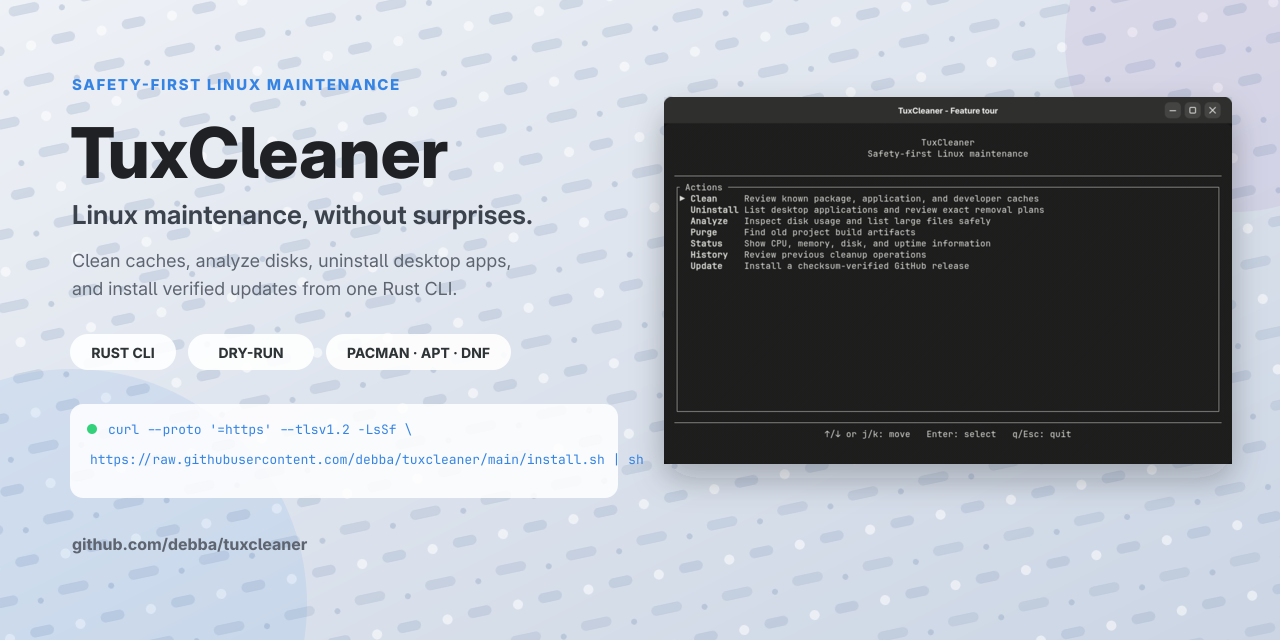
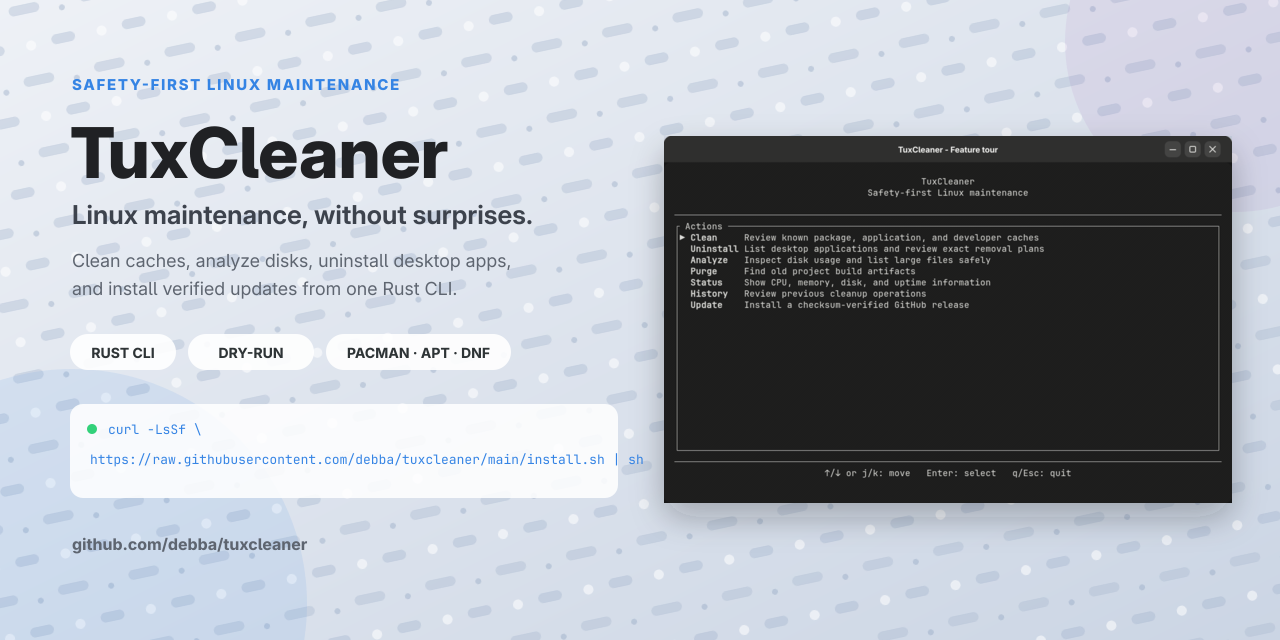
Refine the install examples and social preview

diff --git a/README.md b/README.md
@@ -29,7 +29,7 @@ The [VHS tour](docs/tuxcleaner-demo.tape) runs the compiled CLI against isolated
 Install the latest prebuilt release with one command:
 
 ```bash
-curl --proto '=https' --tlsv1.2 -LsSf https://raw.githubusercontent.com/debba/tuxcleaner/main/install.sh | sh
+curl -LsSf https://raw.githubusercontent.com/debba/tuxcleaner/main/install.sh | sh
 ```
 
 The installer detects x86_64 or ARM64 and GNU libc or musl, downloads the matching GitHub Release archive, verifies its SHA-256 checksum, and installs `tuxcleaner`. It prefers `~/.local/bin` and uses `/usr/local/bin` when that directory is writable.
@@ -37,14 +37,14 @@ The installer detects x86_64 or ARM64 and GNU libc or musl, downloads the matchi
 Install a specific version or directory:
 
 ```bash
-curl --proto '=https' --tlsv1.2 -LsSf https://raw.githubusercontent.com/debba/tuxcleaner/main/install.sh \
+curl -LsSf https://raw.githubusercontent.com/debba/tuxcleaner/main/install.sh \
   | TUXCLEANER_VERSION=0.2.0 TUXCLEANER_INSTALL_DIR="$HOME/bin" sh
 ```
 
 To inspect the installer before running it:
 
 ```bash
-curl --proto '=https' --tlsv1.2 -LsSf https://raw.githubusercontent.com/debba/tuxcleaner/main/install.sh -o install.sh
+curl -LsSf https://raw.githubusercontent.com/debba/tuxcleaner/main/install.sh -o install.sh
 less install.sh
 sh install.sh
 ```
